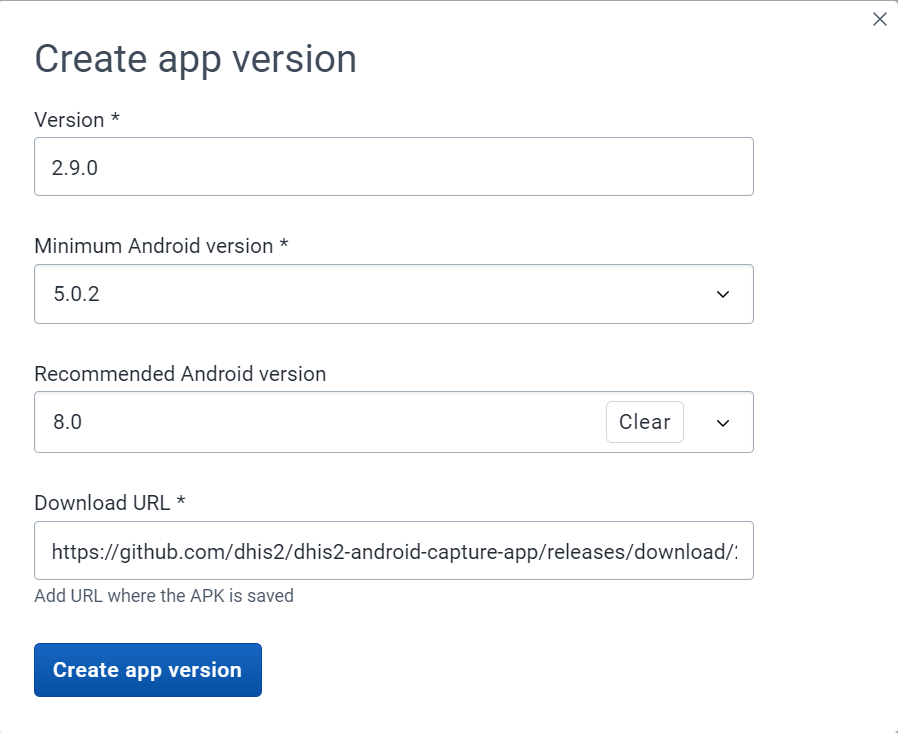
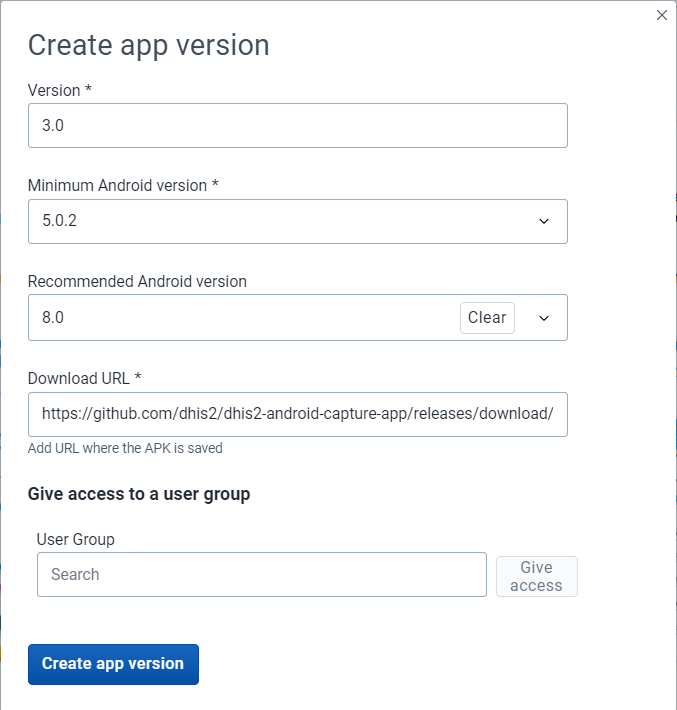
apkupdates

diff --git a/content/android/tg_apk.md b/content/android/tg_apk.md
@@ -63,12 +63,12 @@ Follow the steps below to upload an Android app version:
 ![](images/apk/uploadversion2.png)
 ![](images/apk/uploadversion.png)
 
-So in this case we want to upgrade a to new version -
-2.9
+So in this case we want to upgrade to a new version -
+3.0
 
 So, for this we will follow the below steps:
 
-* In the **Version** we will add latest version - 2.9
+* In the **Version** we will add latest version - 3.0
 * You need to add a **Minimum Android version** that the app should support which is 5.0.2
 * In the **Recommended Android vesrion** we will add 8.0
 * In **Download URL** - you can go use 
